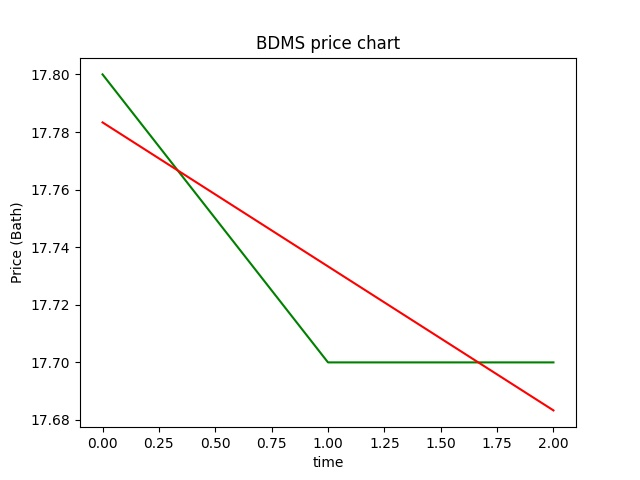
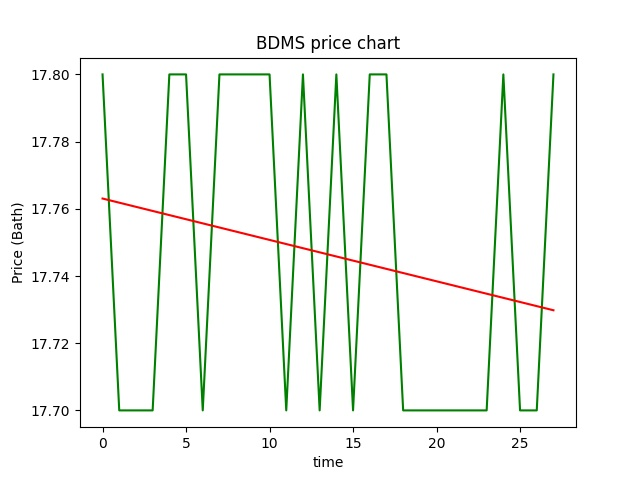
fix bugs 2

diff --git a/SomsriV2.py b/SomsriV2.py
@@ -44,7 +44,7 @@ def webhook():
         if len(list_message) == 2 and list_message[0] == 'จำลอง':
             if list_message[1].upper() in stocks_name:
                 print('Simulating')
-                simulated_data = monte_simulation(list_message[1].upper(),3000)
+                simulated_data = monte_simulation(list_message[1].upper(),5000)
                 if simulated_data != -1:
                     reply_message = "ผลการจำลองราคาหุ้น {}\nจะพบว่าการจำลองราคาหุ้นเฉลี่ยในอีก 1 วันต่อไปมีแนวโน้มที่จะมีค่าประมาณ {:.3f}\nและมีอัตราของราคาตกลง 10 % คิดเป็น {:.3f} %".format(list_message[1].upper(),simulated_data[0],simulated_data[1] *100)
                 else: 

diff --git a/Visualization.py b/Visualization.py
@@ -48,7 +48,7 @@ def plot_upload_data(stock_name):
         plt.title("{} price chart".format(stock_name))
 
         #linear regression
-        if(len(data) < 5):
+        if(len(data) > 5):
             m, b = np.polyfit(x, data, 1)
             fit_eq = []
             for i in x:
